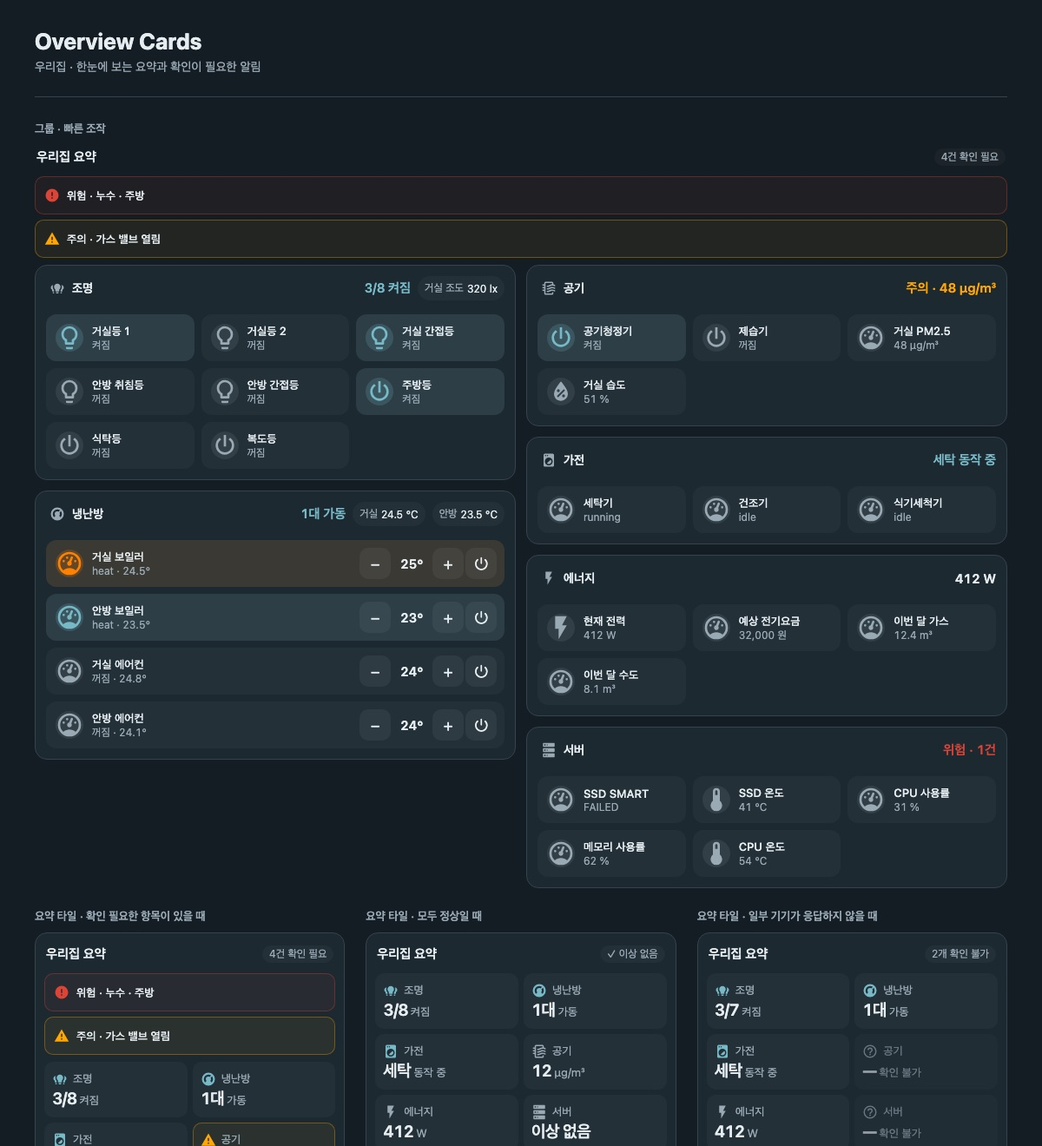
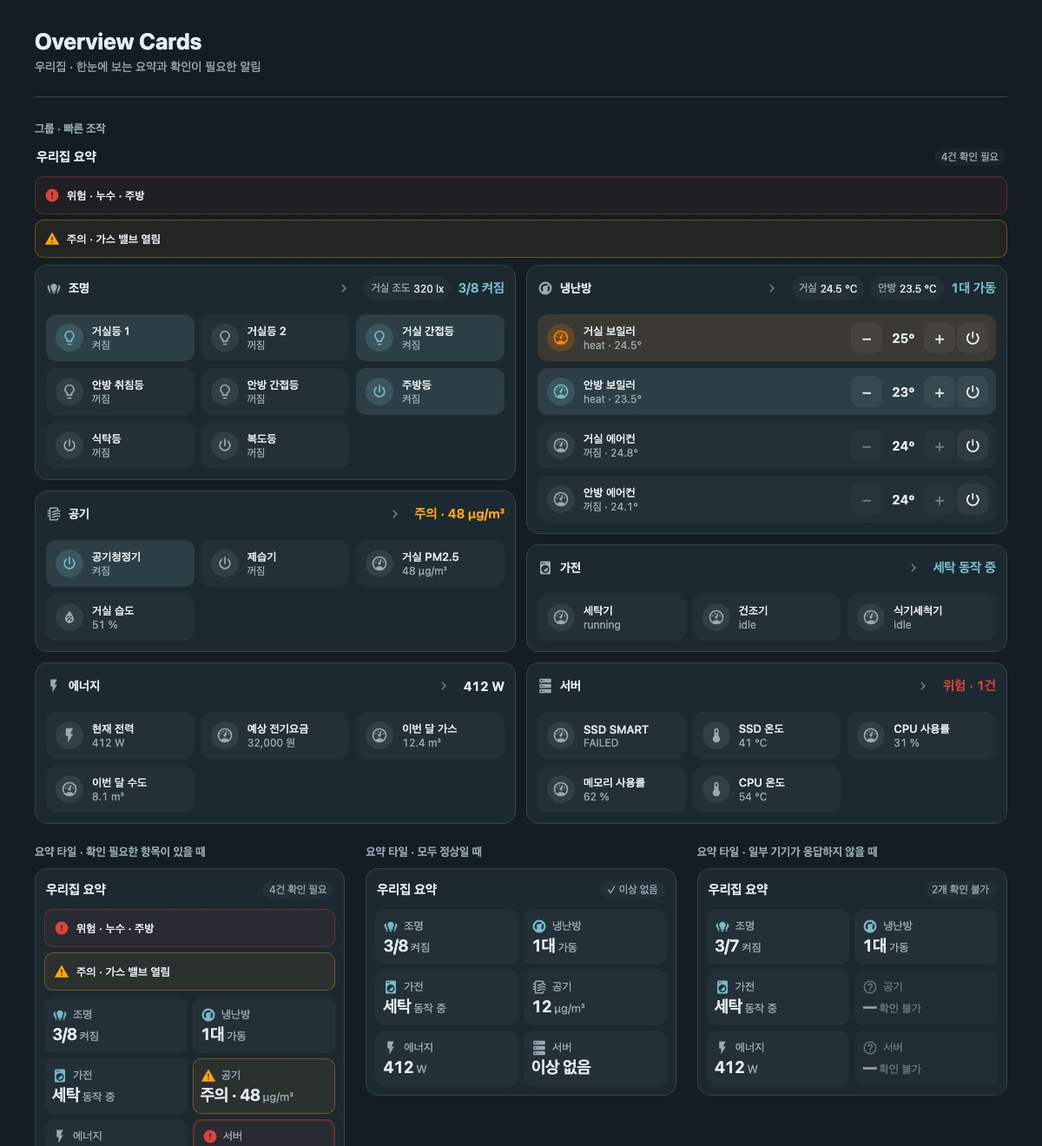
feat: ordered shortest-column layout, header and title fixes (v0.4.0)

diff --git a/compact-overview-card.js b/compact-overview-card.js
@@ -132,24 +132,24 @@
         .tile[data-offline]{opacity:.6}
         .head{display:flex;align-items:center;gap:6px;font-size:13px;color:var(--secondary-text-color);min-width:0}
         .head span{overflow:hidden;text-overflow:ellipsis;white-space:nowrap}
-        ha-icon{--mdc-icon-size:18px;width:18px;height:18px;flex:none}
+        ha-icon,ha-state-icon{--mdc-icon-size:18px;width:18px;height:18px;flex:none}
+        .chip-icon ha-state-icon{--mdc-icon-size:20px;width:20px;height:20px}
         .icon{display:inline-flex;color:var(--secondary-text-color)}
         .tile[data-active] .icon{color:var(--tile-color,var(--primary-color))}
         .main{font-size:19px;font-weight:600;letter-spacing:-.4px;line-height:1.2;font-variant-numeric:tabular-nums;white-space:nowrap;overflow:hidden;text-overflow:ellipsis}
         .main small{font-size:13px;font-weight:400;letter-spacing:0;color:var(--secondary-text-color);margin-left:3px}
         .main small:empty{display:none}.sub{font-size:12px;color:var(--secondary-text-color);overflow:hidden;text-overflow:ellipsis;white-space:nowrap;min-height:15px}
         @container(max-width:360px){.sub{display:none}.tile{padding:8px}}
-        /* Groups fill equal-width columns of at least 460px from top to bottom in the configured order (like a newspaper), and the browser balances the column heights, so there are no gaps and cards keep their natural height. */
-        .sections{display:block;column-width:460px;column-gap:12px;margin-top:12px}.sections:empty{display:none;margin:0}
+        /* Groups sit in equal-width grid columns. _layout() puts each group, in configured order, into the currently shortest column and gives it a 1px-row span, so columns have equal widths, aligned tops, balanced heights and no gaps. Before that runs (or on mobile) it is a plain one-column grid. */
+        .sections{display:grid;grid-template-columns:repeat(var(--cols,1),minmax(0,1fr));gap:12px;align-items:start;margin-top:12px}.sections:empty{display:none;margin:0}
+        :host([data-masonry]) .sections{grid-auto-rows:1px;row-gap:0;margin-bottom:-12px}
         :host([data-bare]) .sections{margin-top:0}
-        :host([section-columns="1"]) .sections{column-count:1;column-width:auto}
-        :host([section-columns="2"]) .sections{column-count:2;column-width:auto}
-        :host([section-columns="3"]) .sections{column-count:3;column-width:auto}
-        @container(max-width:639px){:host([section-columns="2"]) .sections,:host([section-columns="3"]) .sections{column-count:1}}
-        ha-card.section{display:block;overflow:hidden;box-shadow:none;break-inside:avoid;margin:0 0 12px}
+        ha-card.section{display:block;min-width:0;overflow:hidden;box-shadow:none;margin:0}
         .sec-head{display:flex;align-items:center;gap:8px;flex-wrap:wrap;min-height:44px;padding:4px 12px 0}
-        .sec-title{display:flex;align-items:center;gap:8px;flex:1 1 96px;min-width:96px;padding:4px;border:0;border-radius:6px;background:transparent;text-align:left;font:inherit;font-size:14px;font-weight:600;color:var(--primary-text-color)}
-        div.sec-title{cursor:default}
+        .sec-head .sec-sum{margin-left:auto}
+        .sec-title{display:flex;align-items:center;gap:8px;flex:1 1 96px;min-width:96px;min-height:44px;padding:4px 6px;margin-left:-6px;border:0;border-radius:8px;background:transparent;text-align:left;font:inherit;font-size:14px;font-weight:600;color:var(--primary-text-color)}
+        button.sec-title{cursor:pointer;touch-action:manipulation}button.sec-title:hover{background:var(--compact-control-surface)}button.sec-title:focus-visible{outline:2px solid var(--primary-color);outline-offset:-2px}
+        .sec-title .chevron{margin-left:auto;color:var(--secondary-text-color);opacity:.7}
         .sec-title span{overflow:hidden;text-overflow:ellipsis;white-space:nowrap}
         .sec-title ha-icon{color:var(--secondary-text-color)}
         .sec-sum{font-size:15px;font-weight:600;color:var(--primary-text-color);white-space:nowrap;font-variant-numeric:tabular-nums}.sec-sum:empty{display:none}.sec-sum[data-active]{color:var(--primary-color)}.sec-sum[data-offline]{color:var(--secondary-text-color);font-weight:400}
@@ -193,6 +193,7 @@
       if (!Array.isArray(tilesIn) || !Array.isArray(sectionsIn) || !(tilesIn.length || sectionsIn.length)) throw new Error('tiles 또는 sections 목록이 필요합니다.');
       if (config.columns !== undefined && !['auto', 2, 3, 4].includes(config.columns)) throw new Error('columns는 auto, 2, 3, 4 중 하나여야 합니다.');
       if (config.section_columns !== undefined && !['auto', 1, 2, 3].includes(config.section_columns)) throw new Error('section_columns는 auto, 1, 2, 3 중 하나여야 합니다.');
+      if (config.min_column_width !== undefined && !(Number.isFinite(config.min_column_width) && config.min_column_width >= 280 && config.min_column_width <= 900)) throw new Error('min_column_width는 280~900 사이의 숫자여야 합니다.');
       if (config.alerts !== undefined && !Array.isArray(config.alerts)) throw new Error('alerts는 목록이어야 합니다.');
       (config.alerts || []).forEach((alert, i) => {
         const fail = m => { throw new Error(`alerts[${i}]: ${m}`); };
@@ -210,6 +211,7 @@
         if (section.icon !== undefined && typeof section.icon !== 'string') fail('icon은 문자열이어야 합니다.');
         if (section.navigation_path !== undefined && !safePath(section.navigation_path)) fail('navigation_path는 /로 시작하는 로컬 경로여야 합니다.');
         if (section.columns !== undefined && !['auto', 1, 2].includes(section.columns)) fail('columns는 auto, 1, 2 중 하나여야 합니다.');
+        if (section.column !== undefined && ![1, 2, 3].includes(section.column)) fail('column은 1, 2, 3 중 하나여야 합니다.');
         const hasItems = section.items !== undefined, hasControls = section.controls !== undefined;
         if (!hasItems && !hasControls) fail('controls 또는 items가 필요합니다.');
         if (hasItems && (!Array.isArray(section.items) || !section.items.length || section.items.some(item => !item || typeof item !== 'object' || Array.isArray(item)))) fail('items에는 compact-home-panel 항목 목록이 필요합니다.');
@@ -232,9 +234,60 @@
       if (this._configKey === key) return;
       this._configKey = key; this._config = config;
       this.setAttribute('columns', config.columns ?? 'auto');
-      this.setAttribute('section-columns', config.section_columns ?? 'auto');
       this.toggleAttribute('data-bare', !tilesIn.length);
       this._build(); this._render();
+    }
+    connectedCallback() {
+      if (typeof ResizeObserver === 'function' && !this._resize) this._resize = new ResizeObserver(() => this._queueLayout());
+      this._observeAll(); this._queueLayout();
+    }
+    disconnectedCallback() {
+      this._resize?.disconnect(); cancelAnimationFrame(this._raf); this._raf = 0;
+      for (const ref of this._sections) for (const chip of ref.chips) clearTimeout(chip.stepTimer);
+    }
+    _observeAll() {
+      if (!this._resize || !this.isConnected) return;
+      this._resize.disconnect();
+      this._resize.observe(this.shadowRoot.querySelector('.sections'));
+      for (const ref of this._sections) this._resize.observe(ref.card);
+    }
+    _queueLayout() { if (!this._raf) this._raf = requestAnimationFrame(() => { this._raf = 0; this._layout(); }); }
+
+    // Orders groups into the shortest column each time, so tops never go back up the configured order. Equal column widths mean a group's height does not depend on its column, so there is no feedback loop.
+    static assignColumns(heights, columns, pins = [], gap = 12) {
+      const tops = Array(columns).fill(0);
+      return heights.map((height, index) => {
+        let column = 0;
+        for (let k = 1; k < columns; k++) if (tops[k] < tops[column] - 1) column = k;
+        if (pins[index]) column = Math.min(pins[index], columns) - 1;
+        tops[column] += height + gap;
+        return column;
+      });
+    }
+    _layout() {
+      const box = this.shadowRoot.querySelector('.sections'), width = box.clientWidth;
+      if (!width || !this._config) return;
+      const GAP = 12, min = this._config.min_column_width ?? 460, wanted = this._config.section_columns ?? 'auto';
+      const fit = Math.max(1, Math.floor((width + GAP) / (min + GAP)));
+      const columns = wanted === 'auto' ? Math.min(fit, 3) : (width < 640 ? 1 : wanted);
+      compactSet(box.style, '--cols', String(columns));
+      const cards = this._sections.map(ref => ref.card);
+      if (columns === 1 || !cards.length) {
+        this.removeAttribute('data-masonry'); this._layoutKey = '';
+        for (const card of cards) { card.style.gridColumn = ''; card.style.gridRow = ''; }
+        return;
+      }
+      const heights = cards.map(card => Math.ceil(card.getBoundingClientRect().height));
+      if (heights.some(h => !h)) return;
+      // Keep the previous assignment unless the column count or a height changed noticeably, so groups do not jump between columns.
+      const stable = this._assigned && this._assigned.columns === columns && this._assigned.heights.length === heights.length
+        && heights.every((h, i) => Math.abs(h - this._assigned.heights[i]) < 8);
+      if (!stable) this._assigned = { columns, heights, placement: CompactOverviewCard.assignColumns(heights, columns, this._sections.map(ref => ref.section.column), GAP) };
+      cards.forEach((card, i) => {
+        card.style.gridColumn = String(this._assigned.placement[i] + 1);
+        card.style.gridRow = `span ${heights[i] + GAP}`;
+      });
+      this.setAttribute('data-masonry', '');
     }
     set hass(hass) { this._hass = hass; this._render(); }
     getCardSize() {
@@ -284,8 +337,9 @@
         Object.assign(ref, { icon, mainText, small, sub });
         this._tiles.push(ref);
       }
-      header.hidden = !this._config.name && !(this._config.alerts || []).length;
+      header.hidden = !this._config.name;
       this._buildSections();
+      this._assigned = null; this._observeAll(); this._queueLayout();
     }
 
     // ---- quick-control chips -------------------------------------------------------------
@@ -341,14 +395,14 @@
       if (ref.icon.hass !== this._hass) ref.icon.hass = this._hass;
       if (ref.icon.stateObj !== state) ref.icon.stateObj = state;
       const iconName = control.icon || (!state ? 'mdi:help-circle-outline' : undefined);
-      if (iconName && ref.icon.icon !== iconName) ref.icon.icon = iconName;
+      if (ref.icon.icon !== iconName) ref.icon.icon = iconName;
       let line = this._format(state);
       if (kind === 'climate' && !offline) {
         const current = state.attributes?.current_temperature, target = ref.pendingTarget ?? state.attributes?.temperature;
         line = [this._format(state), current !== undefined ? `${current}°` : ''].filter(Boolean).join(' · ');
         text(ref.target, target !== undefined && target !== null ? `${target}°` : '—');
         const range = this._range(state), has = typeof target === 'number';
-        for (const [button, delta] of [[ref.minus, -1], [ref.plus, 1]]) attr(button, 'aria-disabled', !has || (delta < 0 ? target <= range.min : target >= range.max));
+        for (const [button, delta] of [[ref.minus, -1], [ref.plus, 1]]) attr(button, 'aria-disabled', !has || state.state === 'off' || (delta < 0 ? target <= range.min : target >= range.max));
         attr(ref.power, 'aria-disabled', false);
         attr(ref.power, 'aria-pressed', state.state !== 'off');
       } else if (kind === 'climate') {
@@ -431,14 +485,16 @@
         const icon = document.createElement('ha-icon'); icon.setAttribute('aria-hidden', 'true'); icon.icon = section.icon || 'mdi:circle-outline';
         const name = document.createElement('span'); name.textContent = section.name;
         title.append(icon, name);
-        const sum = document.createElement('span'); sum.className = 'sec-sum';
-        head.append(title, sum);
+        if (section.navigation_path) { const chevron = document.createElement('ha-icon'); chevron.className = 'chevron'; chevron.setAttribute('aria-hidden', 'true'); chevron.icon = 'mdi:chevron-right'; title.append(chevron); }
+        head.append(title);
+        // Header order: title, optional readings, then the summary pinned to the right so every group lines up.
         const badges = (section.badges || []).map(badge => {
           const button = document.createElement('button'); button.className = 'pill';
           const label = document.createElement('small'), value = document.createElement('span');
           button.append(label, value); button.onclick = () => this._more(badge.entity); head.append(button);
           return { badge, label, value, button };
         });
+        const sum = document.createElement('span'); sum.className = 'sec-sum'; head.append(sum);
         const controls = document.createElement('div'); controls.className = 'controls';
         const chips = (section.controls || []).map(control => this._makeControl(control, controls));
         const body = document.createElement('div'); body.className = 'sec-body';
@@ -574,7 +630,7 @@
       const hasAlerts = Boolean((this._config.alerts || []).length);
       badge.hidden = !hasAlerts;
       if (hasAlerts) text(badge, [flagged ? `${flagged}건 확인 필요` : '', unavailableAlerts ? `${unavailableAlerts}개 확인 불가` : ''].filter(Boolean).join(' · ') || '✓ 이상 없음');
-      header.hidden = !this._config.name && !hasAlerts;
+      header.hidden = !this._config.name;
 
       this._renderSections(sectionSummaries);
       for (const [index, ref] of this._tiles.entries()) {

diff --git a/examples/preview-icons.js b/examples/preview-icons.js
@@ -1,6 +1,7 @@
 // Material Design Icons by Pictogrammers, Apache-2.0. See ../images/MDI-LICENSE. Preview only.
 window.compactPreviewIcons={"power":"M16.56,5.44L15.11,6.89C16.84,7.94 18,9.83 18,12A6,6 0 0,1 12,18A6,6 0 0,1 6,12C6,9.83 7.16,7.94 8.88,6.88L7.44,5.44C5.36,6.88 4,9.28 4,12A8,8 0 0,0 12,20A8,8 0 0,0 20,12C20,9.28 18.64,6.88 16.56,5.44M13,3H11V13H13","chevron-up":"M7.41,15.41L12,10.83L16.59,15.41L18,14L12,8L6,14L7.41,15.41Z","chevron-down":"M7.41,8.58L12,13.17L16.59,8.58L18,10L12,16L6,10L7.41,8.58Z","stop":"M18,18H6V6H18V18Z","play":"M8,5.14V19.14L19,12.14L8,5.14Z","pause":"M14,19H18V5H14M6,19H10V5H6V19Z","skip-next":"M16,18H18V6H16M6,18L14.5,12L6,6V18Z","thermometer":"M15 13V5A3 3 0 0 0 9 5V13A5 5 0 1 0 15 13M12 4A1 1 0 0 1 13 5V8H11V5A1 1 0 0 1 12 4Z","snowflake":"M20.79,13.95L18.46,14.57L16.46,13.44V10.56L18.46,9.43L20.79,10.05L21.31,8.12L19.54,7.65L20,5.88L18.07,5.36L17.45,7.69L15.45,8.82L13,7.38V5.12L14.71,3.41L13.29,2L12,3.29L10.71,2L9.29,3.41L11,5.12V7.38L8.5,8.82L6.5,7.69L5.92,5.36L4,5.88L4.47,7.65L2.7,8.12L3.22,10.05L5.55,9.43L7.55,10.56V13.45L5.55,14.58L3.22,13.96L2.7,15.89L4.47,16.36L4,18.12L5.93,18.64L6.55,16.31L8.55,15.18L11,16.62V18.88L9.29,20.59L10.71,22L12,20.71L13.29,22L14.7,20.59L13,18.88V16.62L15.5,15.17L17.5,16.3L18.12,18.63L20,18.12L19.53,16.35L21.3,15.88L20.79,13.95M9.5,10.56L12,9.11L14.5,10.56V13.44L12,14.89L9.5,13.44V10.56Z","fire":"M17.66 11.2C17.43 10.9 17.15 10.64 16.89 10.38C16.22 9.78 15.46 9.35 14.82 8.72C13.33 7.26 13 4.85 13.95 3C13 3.23 12.17 3.75 11.46 4.32C8.87 6.4 7.85 10.07 9.07 13.22C9.11 13.32 9.15 13.42 9.15 13.55C9.15 13.77 9 13.97 8.8 14.05C8.57 14.15 8.33 14.09 8.14 13.93C8.08 13.88 8.04 13.83 8 13.76C6.87 12.33 6.69 10.28 7.45 8.64C5.78 10 4.87 12.3 5 14.47C5.06 14.97 5.12 15.47 5.29 15.97C5.43 16.57 5.7 17.17 6 17.7C7.08 19.43 8.95 20.67 10.96 20.92C13.1 21.19 15.39 20.8 17.03 19.32C18.86 17.66 19.5 15 18.56 12.72L18.43 12.46C18.22 12 17.66 11.2 17.66 11.2M14.5 17.5C14.22 17.74 13.76 18 13.4 18.1C12.28 18.5 11.16 17.94 10.5 17.28C11.69 17 12.4 16.12 12.61 15.23C12.78 14.43 12.46 13.77 12.33 13C12.21 12.26 12.23 11.63 12.5 10.94C12.69 11.32 12.89 11.7 13.13 12C13.9 13 15.11 13.44 15.37 14.8C15.41 14.94 15.43 15.08 15.43 15.23C15.46 16.05 15.1 16.95 14.5 17.5H14.5Z","water-percent":"M12,3.25C12,3.25 6,10 6,14C6,17.32 8.69,20 12,20A6,6 0 0,0 18,14C18,10 12,3.25 12,3.25M14.47,9.97L15.53,11.03L9.53,17.03L8.47,15.97M9.75,10A1.25,1.25 0 0,1 11,11.25A1.25,1.25 0 0,1 9.75,12.5A1.25,1.25 0 0,1 8.5,11.25A1.25,1.25 0 0,1 9.75,10M14.25,14.5A1.25,1.25 0 0,1 15.5,15.75A1.25,1.25 0 0,1 14.25,17A1.25,1.25 0 0,1 13,15.75A1.25,1.25 0 0,1 14.25,14.5Z","fan":"M12,11A1,1 0 0,0 11,12A1,1 0 0,0 12,13A1,1 0 0,0 13,12A1,1 0 0,0 12,11M12.5,2C17,2 17.11,5.57 14.75,6.75C13.76,7.24 13.32,8.29 13.13,9.22C13.61,9.42 14.03,9.73 14.35,10.13C18.05,8.13 22.03,8.92 22.03,12.5C22.03,17 18.46,17.1 17.28,14.73C16.78,13.74 15.72,13.3 14.79,13.11C14.59,13.59 14.28,14 13.88,14.34C15.87,18.03 15.08,22 11.5,22C7,22 6.91,18.42 9.27,17.24C10.25,16.75 10.69,15.71 10.89,14.79C10.4,14.59 9.97,14.27 9.65,13.87C5.96,15.85 2,15.07 2,11.5C2,7 5.56,6.89 6.74,9.26C7.24,10.25 8.29,10.68 9.22,10.87C9.41,10.39 9.73,9.97 10.14,9.65C8.15,5.96 8.94,2 12.5,2Z","brightness-6":"M12,18V6A6,6 0 0,1 18,12A6,6 0 0,1 12,18M20,15.31L23.31,12L20,8.69V4H15.31L12,0.69L8.69,4H4V8.69L0.69,12L4,15.31V20H8.69L12,23.31L15.31,20H20V15.31Z","blinds-horizontal":"M20 19V3H4V19H2V21H22V19H20M16 9H18V11H16V9M14 11H6V9H14V11M18 7H16V5H18V7M14 5V7H6V5H14M6 19V13H14V14.82C13.55 15.14 13.25 15.66 13.25 16.25C13.25 17.22 14.03 18 15 18S16.75 17.22 16.75 16.25C16.75 15.66 16.45 15.13 16 14.82V13H18V19H6Z","alpha-a-circle":"M12,2A10,10 0 0,1 22,12A10,10 0 0,1 12,22A10,10 0 0,1 2,12A10,10 0 0,1 12,2M11,7A2,2 0 0,0 9,9V17H11V13H13V17H15V9A2,2 0 0,0 13,7H11M11,9H13V11H11V9Z","thermostat-auto":"M12 2C6.5 2 2 6.5 2 12S6.5 22 12 22C12.4 22 12.7 22 13.1 21.9L15.4 15.3L14.8 14.7C15.5 14 16 13 16 11.9C16 11.2 15.8 10.5 15.4 9.9L17.6 7.7C18.5 9 19 10.4 19 12H20C20.3 12 20.6 12.1 20.8 12.2C20.8 12.2 20.9 12.2 20.9 12.3C21.3 12.5 21.7 12.9 21.9 13.4C22 12.9 22 12.5 22 12C22 6.5 17.5 2 12 2M14 8.6C13.4 8.2 12.7 8 12 8C9.8 8 8 9.8 8 12C8 13.1 8.4 14.1 9.2 14.8L7.1 16.9C5.8 15.7 5 13.9 5 12C5 8.1 8.1 5 12 5C13.6 5 15 5.5 16.2 6.4L14 8.6M20 14H18L14.8 23H16.7L17.4 21H20.6L21.3 23H23.2L20 14M17.8 19.7L19 16L20.2 19.7H17.8Z","molecule-co2":"M5,7A2,2 0 0,0 3,9V15A2,2 0 0,0 5,17H8V15H5V9H8V7H5M11,7A2,2 0 0,0 9,9V15A2,2 0 0,0 11,17H13A2,2 0 0,0 15,15V9A2,2 0 0,0 13,7H11M11,9H13V15H11V9M16,10.5V12H19V13.5H17.5A1.5,1.5 0 0,0 16,15V18H20.5V16.5H17.5V15H19A1.5,1.5 0 0,0 20.5,13.5V12A1.5,1.5 0 0,0 19,10.5H16Z","volume-medium":"M5,9V15H9L14,20V4L9,9M18.5,12C18.5,10.23 17.5,8.71 16,7.97V16C17.5,15.29 18.5,13.76 18.5,12Z","palette-outline":"M12,22A10,10 0 0,1 2,12A10,10 0 0,1 12,2C17.5,2 22,6 22,11A6,6 0 0,1 16,17H14.2C13.9,17 13.7,17.2 13.7,17.5C13.7,17.6 13.8,17.7 13.8,17.8C14.2,18.3 14.4,18.9 14.4,19.5C14.5,20.9 13.4,22 12,22M12,4A8,8 0 0,0 4,12A8,8 0 0,0 12,20C12.3,20 12.5,19.8 12.5,19.5C12.5,19.3 12.4,19.2 12.4,19.1C12,18.6 11.8,18.1 11.8,17.5C11.8,16.1 12.9,15 14.3,15H16A4,4 0 0,0 20,11C20,7.1 16.4,4 12,4M6.5,10C7.3,10 8,10.7 8,11.5C8,12.3 7.3,13 6.5,13C5.7,13 5,12.3 5,11.5C5,10.7 5.7,10 6.5,10M9.5,6C10.3,6 11,6.7 11,7.5C11,8.3 10.3,9 9.5,9C8.7,9 8,8.3 8,7.5C8,6.7 8.7,6 9.5,6M14.5,6C15.3,6 16,6.7 16,7.5C16,8.3 15.3,9 14.5,9C13.7,9 13,8.3 13,7.5C13,6.7 13.7,6 14.5,6M17.5,10C18.3,10 19,10.7 19,11.5C19,12.3 18.3,13 17.5,13C16.7,13 16,12.3 16,11.5C16,10.7 16.7,10 17.5,10Z","lightbulb-outline":"M12,2A7,7 0 0,1 19,9C19,11.38 17.81,13.47 16,14.74V17A1,1 0 0,1 15,18H9A1,1 0 0,1 8,17V14.74C6.19,13.47 5,11.38 5,9A7,7 0 0,1 12,2M9,21V20H15V21A1,1 0 0,1 14,22H10A1,1 0 0,1 9,21M12,4A5,5 0 0,0 7,9C7,11.05 8.23,12.81 10,13.58V16H14V13.58C15.77,12.81 17,11.05 17,9A5,5 0 0,0 12,4Z","sofa-outline":"M21 9V7C21 5.35 19.65 4 18 4H14C13.23 4 12.53 4.3 12 4.78C11.47 4.3 10.77 4 10 4H6C4.35 4 3 5.35 3 7V9C1.35 9 0 10.35 0 12V17C0 18.65 1.35 20 3 20V22H5V20H19V22H21V20C22.65 20 24 18.65 24 17V12C24 10.35 22.65 9 21 9M14 6H18C18.55 6 19 6.45 19 7V9.78C18.39 10.33 18 11.12 18 12V14H13V7C13 6.45 13.45 6 14 6M5 7C5 6.45 5.45 6 6 6H10C10.55 6 11 6.45 11 7V14H6V12C6 11.12 5.61 10.33 5 9.78V7M22 17C22 17.55 21.55 18 21 18H3C2.45 18 2 17.55 2 17V12C2 11.45 2.45 11 3 11S4 11.45 4 12V16H20V12C20 11.45 20.45 11 21 11S22 11.45 22 12V17Z","weather-night":"M17.75,4.09L15.22,6.03L16.13,9.09L13.5,7.28L10.87,9.09L11.78,6.03L9.25,4.09L12.44,4L13.5,1L14.56,4L17.75,4.09M21.25,11L19.61,12.25L20.2,14.23L18.5,13.06L16.8,14.23L17.39,12.25L15.75,11L17.81,10.95L18.5,9L19.19,10.95L21.25,11M18.97,15.95C19.8,15.87 20.69,17.05 20.16,17.8C19.84,18.25 19.5,18.67 19.08,19.07C15.17,23 8.84,23 4.94,19.07C1.03,15.17 1.03,8.83 4.94,4.93C5.34,4.53 5.76,4.17 6.21,3.85C6.96,3.32 8.14,4.21 8.06,5.04C7.79,7.9 8.75,10.87 10.95,13.06C13.14,15.26 16.1,16.22 18.97,15.95M17.33,17.97C14.5,17.81 11.7,16.64 9.53,14.5C7.36,12.31 6.2,9.5 6.04,6.68C3.23,9.82 3.34,14.64 6.35,17.66C9.37,20.67 14.19,20.78 17.33,17.97Z","gauge":"M12,2A10,10 0 0,0 2,12A10,10 0 0,0 12,22A10,10 0 0,0 22,12A10,10 0 0,0 12,2M12,4A8,8 0 0,1 20,12C20,14.4 19,16.5 17.3,18C15.9,16.7 14,16 12,16C10,16 8.2,16.7 6.7,18C5,16.5 4,14.4 4,12A8,8 0 0,1 12,4M14,5.89C13.62,5.9 13.26,6.15 13.1,6.54L11.81,9.77L11.71,10C11,10.13 10.41,10.6 10.14,11.26C9.73,12.29 10.23,13.45 11.26,13.86C12.29,14.27 13.45,13.77 13.86,12.74C14.12,12.08 14,11.32 13.57,10.76L13.67,10.5L14.96,7.29L14.97,7.26C15.17,6.75 14.92,6.17 14.41,5.96C14.28,5.91 14.15,5.89 14,5.89M10,6A1,1 0 0,0 9,7A1,1 0 0,0 10,8A1,1 0 0,0 11,7A1,1 0 0,0 10,6M7,9A1,1 0 0,0 6,10A1,1 0 0,0 7,11A1,1 0 0,0 8,10A1,1 0 0,0 7,9M17,9A1,1 0 0,0 16,10A1,1 0 0,0 17,11A1,1 0 0,0 18,10A1,1 0 0,0 17,9Z","volume-off":"M12,4L9.91,6.09L12,8.18M4.27,3L3,4.27L7.73,9H3V15H7L12,20V13.27L16.25,17.53C15.58,18.04 14.83,18.46 14,18.7V20.77C15.38,20.45 16.63,19.82 17.68,18.96L19.73,21L21,19.73L12,10.73M19,12C19,12.94 18.8,13.82 18.46,14.64L19.97,16.15C20.62,14.91 21,13.5 21,12C21,7.72 18,4.14 14,3.23V5.29C16.89,6.15 19,8.83 19,12M16.5,12C16.5,10.23 15.5,8.71 14,7.97V10.18L16.45,12.63C16.5,12.43 16.5,12.21 16.5,12Z"};
 Object.assign(window.compactPreviewIcons,{"alert":"M13 14H11V9H13M13 18H11V16H13M1 21H23L12 2L1 21Z","alert-circle":"M13,13H11V7H13M13,17H11V15H13M12,2A10,10 0 0,0 2,12A10,10 0 0,0 12,22A10,10 0 0,0 22,12A10,10 0 0,0 12,2Z","help-circle-outline":"M11,18H13V16H11V18M12,2A10,10 0 0,0 2,12A10,10 0 0,0 12,22A10,10 0 0,0 22,12A10,10 0 0,0 12,2M12,20C7.59,20 4,16.41 4,12C4,7.59 7.59,4 12,4C16.41,4 20,7.59 20,12C20,16.41 16.41,20 12,20M12,6A4,4 0 0,0 8,10H10A2,2 0 0,1 12,8A2,2 0 0,1 14,10C14,12 11,11.75 11,15H13C13,12.75 16,12.5 16,10A4,4 0 0,0 12,6Z","lightbulb-group":"M15 14V16A1 1 0 0 1 14 17H10A1 1 0 0 1 9 16V14A5 5 0 1 1 15 14M14 18H10V19A1 1 0 0 0 11 20H13A1 1 0 0 0 14 19M7 19V18H5V19A1 1 0 0 0 6 20H7.17A2.93 2.93 0 0 1 7 19M5 10A6.79 6.79 0 0 1 5.68 7A4 4 0 0 0 4 14.45V16A1 1 0 0 0 5 17H7V14.88A6.92 6.92 0 0 1 5 10M17 18V19A2.93 2.93 0 0 1 16.83 20H18A1 1 0 0 0 19 19V18M18.32 7A6.79 6.79 0 0 1 19 10A6.92 6.92 0 0 1 17 14.88V17H19A1 1 0 0 0 20 16V14.45A4 4 0 0 0 18.32 7Z","thermostat":"M16.95,16.95L14.83,14.83C15.55,14.1 16,13.1 16,12C16,11.26 15.79,10.57 15.43,10L17.6,7.81C18.5,9 19,10.43 19,12C19,13.93 18.22,15.68 16.95,16.95M12,5C13.57,5 15,5.5 16.19,6.4L14,8.56C13.43,8.21 12.74,8 12,8A4,4 0 0,0 8,12C8,13.1 8.45,14.1 9.17,14.83L7.05,16.95C5.78,15.68 5,13.93 5,12A7,7 0 0,1 12,5M12,2A10,10 0 0,0 2,12A10,10 0 0,0 12,22A10,10 0 0,0 22,12C22,6.47 17.5,2 12,2Z","washing-machine":"M14.83,11.17C16.39,12.73 16.39,15.27 14.83,16.83C13.27,18.39 10.73,18.39 9.17,16.83L14.83,11.17M6,2H18A2,2 0 0,1 20,4V20A2,2 0 0,1 18,22H6A2,2 0 0,1 4,20V4A2,2 0 0,1 6,2M7,4A1,1 0 0,0 6,5A1,1 0 0,0 7,6A1,1 0 0,0 8,5A1,1 0 0,0 7,4M10,4A1,1 0 0,0 9,5A1,1 0 0,0 10,6A1,1 0 0,0 11,5A1,1 0 0,0 10,4M12,8A6,6 0 0,0 6,14A6,6 0 0,0 12,20A6,6 0 0,0 18,14A6,6 0 0,0 12,8Z","air-filter":"M19,18.31V20A2,2 0 0,1 17,22H7A2,2 0 0,1 5,20V16.3C4.54,16.12 3.95,16 3,16A1,1 0 0,1 2,15A1,1 0 0,1 3,14C3.82,14 4.47,14.08 5,14.21V12.3C4.54,12.12 3.95,12 3,12A1,1 0 0,1 2,11A1,1 0 0,1 3,10C3.82,10 4.47,10.08 5,10.21V8.3C4.54,8.12 3.95,8 3,8A1,1 0 0,1 2,7A1,1 0 0,1 3,6C3.82,6 4.47,6.08 5,6.21V4A2,2 0 0,1 7,2H17A2,2 0 0,1 19,4V6.16C20.78,6.47 21.54,7.13 21.71,7.29C22.1,7.68 22.1,8.32 21.71,8.71C21.32,9.1 20.8,9.09 20.29,8.71V8.71C20.29,8.71 19.25,8 17,8C15.74,8 14.91,8.41 13.95,8.9C12.91,9.41 11.74,10 10,10C9.64,10 9.31,10 9,9.96V7.95C9.3,8 9.63,8 10,8C11.26,8 12.09,7.59 13.05,7.11C14.09,6.59 15.27,6 17,6V4H7V20H17V18C18.5,18 18.97,18.29 19,18.31M17,10C15.27,10 14.09,10.59 13.05,11.11C12.09,11.59 11.26,12 10,12C9.63,12 9.3,12 9,11.95V13.96C9.31,14 9.64,14 10,14C11.74,14 12.91,13.41 13.95,12.9C14.91,12.42 15.74,12 17,12C19.25,12 20.29,12.71 20.29,12.71V12.71C20.8,13.1 21.32,13.1 21.71,12.71C22.1,12.32 22.1,11.69 21.71,11.29C21.5,11.08 20.25,10 17,10M17,14C15.27,14 14.09,14.59 13.05,15.11C12.09,15.59 11.26,16 10,16C9.63,16 9.3,16 9,15.95V17.96C9.31,18 9.64,18 10,18C11.74,18 12.91,17.41 13.95,16.9C14.91,16.42 15.74,16 17,16C19.25,16 20.29,16.71 20.29,16.71V16.71C20.8,17.1 21.32,17.1 21.71,16.71C22.1,16.32 22.1,15.69 21.71,15.29C21.5,15.08 20.25,14 17,14Z","server":"M4,1H20A1,1 0 0,1 21,2V6A1,1 0 0,1 20,7H4A1,1 0 0,1 3,6V2A1,1 0 0,1 4,1M4,9H20A1,1 0 0,1 21,10V14A1,1 0 0,1 20,15H4A1,1 0 0,1 3,14V10A1,1 0 0,1 4,9M4,17H20A1,1 0 0,1 21,18V22A1,1 0 0,1 20,23H4A1,1 0 0,1 3,22V18A1,1 0 0,1 4,17M9,5H10V3H9V5M9,13H10V11H9V13M9,21H10V19H9V21M5,3V5H7V3H5M5,11V13H7V11H5M5,19V21H7V19H5Z","flash":"M7,2V13H10V22L17,10H13L17,2H7Z","home-heart":"M2,12L12,3L22,12H19V20H5V12H2M12,18L12.72,17.34C15.3,15 17,13.46 17,11.57C17,10.03 15.79,8.82 14.25,8.82C13.38,8.82 12.55,9.23 12,9.87C11.45,9.23 10.62,8.82 9.75,8.82C8.21,8.82 7,10.03 7,11.57C7,13.46 8.7,15 11.28,17.34L12,18Z"});
+Object.assign(window.compactPreviewIcons,{"chevron-right":"M8.59,16.58L13.17,12L8.59,7.41L10,6L16,12L10,18L8.59,16.58Z","leaf":"M17,8C8,10 5.9,16.17 3.82,21.34L5.71,22L6.66,19.7C7.14,19.87 7.64,20 8,20C19,20 22,3 22,3C21,5 14,5.25 9,6.25C4,7.25 2,11.5 2,13.5C2,15.5 3.75,17.25 3.75,17.25C7,8 17,8 17,8Z"});
 
 // Standalone previews have no HA frontend; emulate its state-icon binding locally.
 customElements.define('ha-state-icon',class extends HTMLElement {

diff --git a/examples/preview.html b/examples/preview.html
@@ -4,7 +4,7 @@
 :root{font-family:system-ui,sans-serif;color-scheme:light;--primary-color:#008bba;--primary-text-color:#263238;--secondary-text-color:#66747c;--divider-color:#e3e7e9;--disabled-color:#a5afb5;--card-background-color:#fff;--warning-color:#ffa600;--error-color:#db4437}
 body{background:#f2f5f6;margin:24px}body.dark{color-scheme:dark;--primary-text-color:#e6edef;--secondary-text-color:#9caeb6;--divider-color:#35434a;--disabled-color:#66767e;--card-background-color:#202b30;background:#12181b}
 h1{font-size:20px;margin:0 0 8px}p{font-size:13px;color:var(--secondary-text-color)}nav{display:flex;flex-wrap:wrap;gap:8px;margin:16px 0}nav select,nav button{font:inherit;padding:8px;border:1px solid var(--divider-color);border-radius:8px;background:var(--card-background-color);color:var(--primary-text-color)}
-main{width:390px;max-width:100%}main.wide{width:1120px}body.capture{margin:8px}body.capture>h1,body.capture>p,body.capture>nav{display:none}
+main{width:390px;max-width:100%}main.wide{width:1500px}body.capture{margin:8px}body.capture>h1,body.capture>p,body.capture>nav{display:none}
 .toast{position:fixed;left:50%;bottom:16px;transform:translateX(-50%);background:#263238;color:#fff;border-radius:8px;padding:8px 12px;font-size:13px;opacity:0;pointer-events:none}.toast.show{opacity:1}
 </style>
 <h1>Overview Cards</h1><p>모의 상태를 사용한 브라우저 미리보기 · 실제 기기에 명령을 보내지 않습니다.</p>
@@ -23,7 +23,7 @@ customElements.define('ha-icon',class extends HTMLElement{
 const params=new URLSearchParams(location.search),{translate}=compactPreviewLocale,{states,sectionsConfig,tilesConfig,scenarios,format}=overviewPreview;
 const config=params.get('variant')==='tiles'?tilesConfig:sectionsConfig;
 const toast=document.querySelector('.toast'),main=document.querySelector('main');
-if(['320','390','760','1120'].includes(params.get('width'))){main.style.width=params.get('width')+'px';document.querySelector('select').value=params.get('width');}
+if(['320','390','760','1120','1500'].includes(params.get('width'))){main.style.width=params.get('width')+'px';document.querySelector('select').value=params.get('width');}
 if(params.get('theme')==='dark')document.body.classList.add('dark');
 if(params.get('capture')==='true')document.body.classList.add('capture');
 const scenario=params.get('scenario')||'normal',initial=states();(scenarios[scenario]||scenarios.normal)(initial);

diff --git a/ADOPTION_CHECKLIST.md b/ADOPTION_CHECKLIST.md
@@ -15,7 +15,7 @@ Scope and applicability: [STANDARDS.md](STANDARDS.md). This is a card-specific r
 | --- | --- | --- |
 | PASS | Reproducible development install | `npm install` with the committed lockfile; CI uses `npm ci`. |
 | PASS | JavaScript syntax | `npm run check`. |
-| PASS | Card regression suite | `npm test`: 27 passed, 0 failed. Tile summaries, thresholds, unavailable handling, alert lifecycle, YAML booleans, navigation, config validation, groups with embedded `compact-home-panel`, and quick-control chips (toggle, debounced climate steps with clamping, power, confirmation, offline handling). |
+| PASS | Card regression suite | `npm test`: 30 passed, 0 failed. Tile summaries, thresholds, unavailable handling, alert lifecycle, YAML booleans, navigation, config validation, groups with embedded `compact-home-panel`, and quick-control chips (toggle, debounced climate steps with clamping, power, confirmation, offline handling). |
 | PASS | GitHub CI | `Check` succeeded on Ubuntu/Node.js 22 for commits `c6fab62` ([run 41190794025](https://github.com/eigger/hass-overview-cards/actions/runs/41190794025)) and `a722f36` ([run 41191179038](https://github.com/eigger/hass-overview-cards/actions/runs/41191179038)). |
 | PASS | Repository settings | API read-back after configuration: public, squash/rebase merge, auto-merge, branch deletion, read-only default workflow permissions, strict `test` requirement, linear history, no force push or deletion. |
 | PASS | Independent review | A separate Opus review of the card, tests, README and workflows found one high and several medium/low issues. They were fixed and covered by tests in commit `a722f36`; unverified items below remain open. |
@@ -23,6 +23,7 @@ Scope and applicability: [STANDARDS.md](STANDARDS.md). This is a card-specific r
 | PASS | Release workflow | Tag `v0.1.0` passed the release job ([run 41192520436](https://github.com/eigger/hass-overview-cards/actions/runs/41192520436)) and published `compact-overview-card.js`. `v0.2.0` follows the same path; see the release page. |
 | TODO | Dependabot auto-merge path | The pinned reusable workflow has not yet processed a Dependabot PR in this repository. |
 | TODO | HACS installation and live rendering | No connected HA installation was used. DOM tests and mocked previews do not verify HA compatibility, theme variables or actual devices. |
+| PASS | Layout in two engines | Group placement (aligned tops, equal widths, configured order, no gaps, one column at 390px) was measured with real Compact Cards rows in Chromium and WebKit; both gave identical positions at 1500px, 1120px and 390px. Home Assistant itself was not used. |
 | TODO | Minimum Home Assistant version | The card uses `color-mix` and container queries; no minimum version is declared or verified. |
 | N/A | Integration-only checks | No Python integration, domain, manifest, BLE/payload library or integration ZIP. Central integration checker, Hassfest and HA Python fixtures do not apply. |
 

diff --git a/docs/compact-overview-card.md b/docs/compact-overview-card.md
@@ -59,12 +59,13 @@ sections:
 | `controls` | 예* | — | 빠른 조작 칩 목록 |
 | `items` | 예* | — | 칩 아래에 표시할 `compact-home-panel` 행([해당 카드](https://github.com/eigger/hass-compact-cards/blob/main/docs/compact-home-panel.md)와 동일, Compact Cards 필요). `*` 둘 중 하나 이상 |
 | `icon` | 아니요 | `mdi:circle-outline` | 제목 아이콘 |
-| `navigation_path` | 아니요 | 없음 | `/`로 시작하는 로컬 경로 |
+| `navigation_path` | 아니요 | 없음 | `/`로 시작하는 로컬 경로. 있으면 제목에 `>`가 붙고 눌러서 이동 |
+| `column` | 아니요 | 자동 | `1`, `2`, `3`. 그룹을 특정 열에 고정 |
 | `columns` | 아니요 | `auto` | `items`의 열 수 `auto`, `1`, `2` |
 | `summary` | 아니요 | 없음 | `name` 없는 타일 사양. 헤더에 `3/8 켜짐`, `주의 · 48 µg/m³` 형태로 표시 |
 | `badges` | 아니요 | 없음 | `[{entity, name}]`. 헤더의 센서 값. 누르면 상세 정보 |
 
-그룹은 설정한 순서대로 폭이 같은 열에 위에서 아래로(첫 열부터 차례로) 채우고 열 높이는 자동으로 균형을 맞춥니다. 카드 사이에 빈틈이 없고, 열 폭은 최소 460px라 compact 냉난방 행이 한 줄에 들어가며, 모바일에서는 1열입니다.
+그룹은 설정 순서대로, 그때그때 가장 짧은 열에 배치됩니다. 첫 줄은 1·2·3번 그룹이고 위에서 아래로 훑으면 설정 순서를 따릅니다. 열 상단이 맞고 폭이 같으며 카드 사이에 빈틈이 없습니다(열 하단은 조금 다를 수 있음). 열 최소 폭은 460px라 compact 냉난방 행이 한 줄에 들어가며, 640px 미만에서는 1열입니다. `column: 1|2|3`으로 그룹을 열에 고정할 수 있습니다.
 
 ## 빠른 조작 칩
 
@@ -88,7 +89,8 @@ sections:
 | `tiles` | 예* | — | 조작 없는 요약 타일 목록. `*` `sections`와 `tiles` 중 하나 이상 필요 |
 | `name` | 아니요 | 없음 | 카드 제목 |
 | `columns` | 아니요 | `auto` | 타일 열 수 `auto`, `2`, `3`, `4`. `auto`는 카드 너비 421px부터 3열, 700px부터 4열 |
-| `section_columns` | 아니요 | `auto` | 그룹 열 수 `auto`, `1`, `2`, `3`. `auto`는 폭 460px 이상 그룹을 가로로 채움. PC에서 전체 폭을 쓰려면 이 카드가 있는 섹션에 `column_span`을 지정 |
+| `section_columns` | 아니요 | `auto` | 그룹 열 수 `auto`, `1`, `2`, `3` |
+| `min_column_width` | 아니요 | `460` | 열 최소 폭(280~900). `auto`는 들어가는 만큼(최대 3열) 사용 |
 | `alerts` | 아니요 | 없음 | 조건이 맞을 때만 표시하는 알림 목록 |
 
 ## 요약 타일 유형 (`tiles`와 그룹의 `summary`)

diff --git a/README.ko.md b/README.ko.md
@@ -69,11 +69,12 @@ sections:
 | `name` | 예 | 그룹 제목. `navigation_path`가 있으면 제목이 해당 로컬 경로로 이동하는 버튼이 됩니다 |
 | `controls` | 예* | 빠른 조작 칩(아래) |
 | `items` | 예* | 칩 아래에 표시할 `compact-home-panel` 행(Compact Cards 필요). `*` `controls`/`items` 중 하나 이상 |
-| `icon`, `navigation_path` | 아니요 | 제목 아이콘, 로컬 경로 |
+| `icon`, `navigation_path` | 아니요 | 제목 아이콘, 로컬 경로. 경로가 있으면 제목에 `>` 표시가 붙고 눌러서 해당 탭으로 이동 |
+| `column` | 아니요 | `1`, `2`, `3`: 그룹을 특정 열에 고정(표시되는 열 수보다 크면 마지막 열) |
 | `summary` | 아니요 | `name` 없는 타일 사양(`count`, `climate`, `status`, `value`, `health`). 헤더에 굵게, 수준 색상으로 표시 |
 | `badges` | 아니요 | `[{ entity, name }]` 요약 옆 센서 값. 누르면 상세 정보 |
 
-최상위 `section_columns`(`auto`, `1`, `2`, `3`)는 그룹 열 수입니다. `auto`는 460px 이상 폭의 그룹을 가로로 채우고 설정한 순서대로 폭이 같은 열(최소 460px)에 위에서 아래로 채워(첫 열부터 차례로) compact 냉난방 행이 한 줄에 들어가고, 열 높이는 자동으로 균형을 맞추며 빈틈이 없습니다. 모바일에서는 1열입니다. PC에서 전체 폭을 쓰려면 Home Assistant 섹션 뷰에서 이 카드가 들어간 섹션에 `column_span`(예: `3`)을 지정하세요.
+최상위 `section_columns`(`auto`, `1`, `2`, `3`)와 `min_column_width`(280~900, 기본 460)가 그룹 열을 정합니다. `auto`는 들어갈 수 있는 만큼 같은 폭의 열(최대 3)을 쓰고, 640px 미만이거나 한 열만 들어가면 1열로 쌓습니다. **순서:** 그룹은 설정 순서대로, 그때그때 가장 짧은 열에 배치됩니다. 그래서 첫 줄은 1·2·3번 그룹이고 위에서 아래로 훑으면 설정 순서를 따릅니다. 상단이 맞고 열 폭이 같으며 빈틈이 없고, 열 하단은 조금 다를 수 있습니다. 그룹의 `column: 1|2|3`으로 열을 고정할 수 있습니다. PC에서 전체 폭을 쓰려면 Home Assistant 섹션 뷰에서 이 카드가 들어간 섹션에 `column_span`(예: `3`)을 지정하세요.
 
 ### 빠른 조작 칩
 

diff --git a/README.md b/README.md
@@ -71,11 +71,12 @@ Prefer a controls-free summary grid? Use `tiles` instead of `sections`; see [the
 | `name` | yes | Group title. With `navigation_path` the title is a button that opens that local path |
 | `controls` | yes* | Quick-control chips (below) |
 | `items` | yes* | Optional `compact-home-panel` rows shown under the chips (needs Compact Cards). `*` at least one of `controls`/`items` |
-| `icon`, `navigation_path` | no | Title icon and local path |
+| `icon`, `navigation_path` | no | Title icon and local path. With a path the title shows a chevron and opens that tab |
+| `column` | no | `1`, `2` or `3`: pin the group to a column (ignored when fewer columns are shown) |
 | `summary` | no | A tile spec without `name` (`count`, `climate`, `status`, `value`, `health`); shown bold in the header, coloured by level |
 | `badges` | no | `[{ entity, name }]` readings next to the summary; tap opens the entity |
 
-Top-level `section_columns` (`auto`, `1`, `2`, `3`) sets the group columns. `auto` fills the width with groups at least 460px wide, from top to bottom in the configured order in equal-width columns of at least 460px (newspaper style: the first columns take the first groups), so Compact climate rows stay on one line; column heights are balanced automatically with no gaps, and on mobile it is a single column. Put the card in a section with `column_span` (for example `3`) in Home Assistant's sections view to use the full width on a PC.
+Top-level `section_columns` (`auto`, `1`, `2`, `3`) and `min_column_width` (280–900, default 460) control the group columns. `auto` uses as many equal-width columns as fit (up to 3); below 640px, or when only one fits, groups stack in one column. **Order:** groups are placed in the configured order, each into the currently shortest column, so the first row is groups 1, 2, 3 and reading down the page follows the configured order. Tops are aligned, column widths are equal, and there are no gaps; column bottoms may differ slightly. Pin a group with `column: 1|2|3`. Put the card in a section with `column_span` (for example `3`) in Home Assistant's sections view to use the full width on a PC.
 
 ### Quick-control chips
 

diff --git a/images/README.md b/images/README.md
@@ -6,10 +6,10 @@ Run `python3 -m http.server 8131 --bind 127.0.0.1` in the repository root and op
 
 | Image | Source page | Viewport |
 | --- | --- | --- |
-| `overview-card.jpg` | `preview.html?scenario=alert&width=1120&capture=true` | 1136 × 740 |
-| `overview-card-clear.jpg` | `preview.html?scenario=normal&width=1120&capture=true` | 1136 × 680 |
-| `overview-card-dark.jpg` | `preview.html?scenario=alert&width=1120&theme=dark&capture=true` | 1136 × 740 |
-| `overview-card-mobile.jpg` | `preview.html?scenario=alert&width=390&capture=true` in a 390px frame | 390 × 1650 |
+| `overview-card.jpg` | `preview.html?scenario=alert&width=1500&capture=true` | 1516 × 710 |
+| `overview-card-clear.jpg` | `preview.html?scenario=normal&width=1500&capture=true` | 1516 × 640 |
+| `overview-card-dark.jpg` | `preview.html?scenario=alert&width=1500&theme=dark&capture=true` | 1516 × 710 |
+| `overview-card-mobile.jpg` | `preview.html?scenario=alert&width=390&capture=true` in a 390px frame | 390 × 1700 |
 | `overview-tiles.jpg`, `overview-tiles-clear.jpg`, `overview-tiles-offline.jpg` | `preview.html?variant=tiles&scenario=alert\|normal\|offline&capture=true` | 422 × 432 / 336 / 336 |
 | `showcase-light.jpg`, `showcase-dark.jpg` | `showcase.html?capture=true` (`&theme=dark`) | 1200 × 1320 |
 

diff --git a/CHANGELOG.md b/CHANGELOG.md
@@ -2,6 +2,12 @@
 
 ## Unreleased
 
+## 0.4.0 — 2026-10-31
+
+- Replace the CSS multi-column layout with ordered shortest-column placement: groups follow the configured order, tops are aligned, columns have equal widths and there are no gaps. Fixes the third column starting 12px lower in WebKit (Home Assistant app, Safari) and very uneven column heights. Verified identical in Chromium and WebKit. Add `min_column_width` and per-group `column`.
+- Top header is shown only when the card has a `name` (it no longer shows a lone badge). Group headers now keep the summary at the far right, after the title and readings, and the title button is at least 44px high with a chevron when it navigates.
+- Chips: `ha-state-icon` sizing, stale fallback icon, −/+ disabled while a climate entity is off, step timers cleaned up on disconnect.
+
 ## 0.3.4 — 2026-10-31
 
 - Fill groups into equal-width columns top to bottom in the configured order (balanced heights, no gaps between or below cards), replacing the row-by-row grid that left blank space under short groups. The optional `span` is removed.
